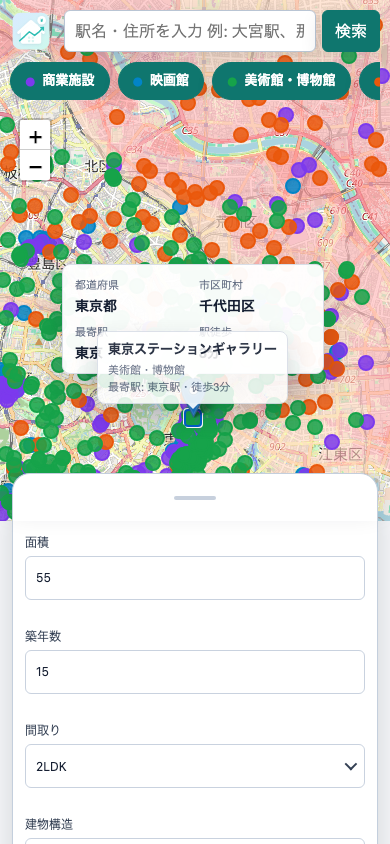
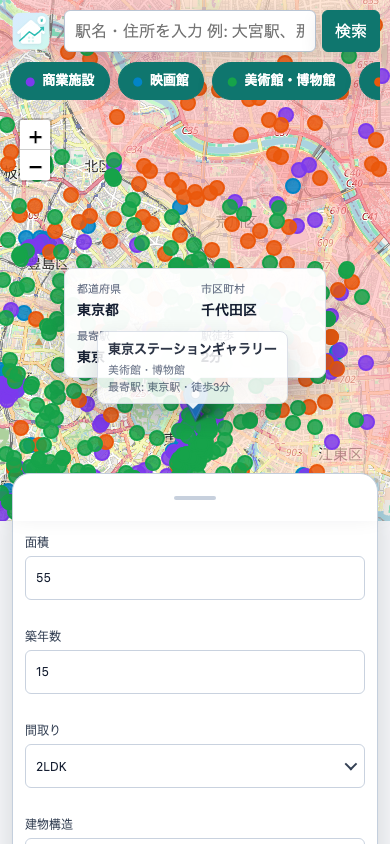
READMEの画面画像と説明を更新

diff --git a/frontend/e2e/screenshots.spec.ts b/frontend/e2e/screenshots.spec.ts
@@ -37,6 +37,27 @@ test("README用デスクトップ画面を生成する", async ({ page }) => {
   });
 });
 
+test("README用の全国施設クラスター画面を生成する", async ({ page }) => {
+  await page.setViewportSize({ width: 1440, height: 900 });
+  await mockSuccessfulGeocoding(page);
+  const predictionPage = new PredictionPage(page);
+  await predictionPage.goto();
+  await predictionPage.expectLoaded();
+
+  const zoomOut = page.getByRole("button", { name: "Zoom out" });
+  for (let index = 0; index < 7; index += 1) {
+    await zoomOut.click();
+    await page.waitForTimeout(350);
+  }
+  await page.locator(".facility-cluster-icon").first().waitFor({ state: "visible" });
+
+  await page.screenshot({
+    path: path.join(screenshotsDir, "app-japan-facility-clusters.png"),
+    fullPage: true,
+    animations: "disabled"
+  });
+});
+
 test("README用の予測結果画像を生成する", async ({ page }) => {
   await page.setViewportSize({ width: 1440, height: 1000 });
   const predictionPage = new PredictionPage(page);
@@ -44,6 +65,24 @@ test("README用の予測結果画像を生成する", async ({ page }) => {
 
   await predictionPage.predictionResult.screenshot({
     path: path.join(screenshotsDir, "app-prediction-result.png"),
+    animations: "disabled"
+  });
+});
+
+test("README用の周辺施設情報画面を生成する", async ({ page }) => {
+  await page.setViewportSize({ width: 1440, height: 1000 });
+  const predictionPage = new PredictionPage(page);
+  await prepareReadmeView(predictionPage);
+
+  const facilityCard = page.getByTestId("commercial-facility-card");
+  await facilityCard.scrollIntoViewIfNeeded();
+  await facilityCard.getByText("周辺商業施設の一覧", { exact: true }).waitFor({
+    state: "visible"
+  });
+
+  await page.screenshot({
+    path: path.join(screenshotsDir, "app-nearby-facilities.png"),
+    fullPage: true,
     animations: "disabled"
   });
 });

diff --git a/README.md b/README.md
@@ -18,9 +18,17 @@
 - 予測価格、平米単価、参考価格帯の表示
 - 過去価格と将来参考価格のグラフ表示
 - 首都圏4都県の専用モデルと8地方モデルによる全国推論
+- 全国の商業施設、映画館、美術館・博物館、温泉・入浴施設のカテゴリ別クラスター表示
+- 周辺商業施設、駅規模、災害リスク、モデル詳細の参考情報表示
 - スマートフォン向けボトムシートUI
 
 ## 画面イメージ
+
+### 全国の周辺施設
+
+地図をズームアウトすると、商業施設、映画館、美術館・博物館、温泉・入浴施設をカテゴリ別の件数にまとめて表示します。件数が多いほど円が大きく濃くなり、クリックするとその地域へズームインできます。
+
+![日本全国の周辺施設クラスター](docs/images/app-japan-facility-clusters.png)
 
 ### 価格予測結果
 
@@ -35,6 +43,12 @@
 将来価格は学習最終年のモデル予測値を基点に、駅別または地域別の価格推移トレンドで補正した参考値です。長期予測の精度は保証しません。
 
 ![価格推移グラフ](docs/images/app-price-history.png)
+
+### 周辺施設情報
+
+サイドメニューの参考情報では、周辺商業施設の名称、開業時期、店舗面積、テナント数や地域内の集計を確認できます。駅規模、災害リスク、モデル詳細もタブで切り替えられます。
+
+![サイドメニューの周辺施設情報](docs/images/app-nearby-facilities.png)
 
 ### スマートフォン表示
 
@@ -96,7 +110,7 @@ React + ONNX Runtime Web
 
 ```text
 frontend/          React、TypeScript、Vite、Playwright
-frontend/public/   ブラウザ配信用ONNX、メタデータ、駅マスタ、価格推移JSON
+frontend/public/   ブラウザ配信用ONNX、メタデータ、駅・施設・ハザード・価格推移データ
 training/          データ取得、前処理、学習、評価、ONNX出力
 training/browser/  公式画面CSVダウンロード用Playwrightスクリプト
 docs/              要件定義、実装仕様、テスト仕様、画面画像
@@ -128,7 +142,7 @@ developで開発
         ↓
 main向けPull Request
         ↓
-ビルドおよびE2Eテスト
+フロントエンドビルドおよびPython軽量CI
         ↓
 mainへマージ
         ↓
@@ -234,7 +248,9 @@ LightGBMでは、駅名、自治体、間取り、建物構造などのカテゴ
 - 入力変更による自動再予測
 - 地図クリックによる物件位置変更
 - 住所検索
+- 周辺施設のカテゴリ切り替えとクラスター表示
 - 価格推移グラフ
+- 商業施設、駅規模、災害リスク、モデル詳細の参考情報
 - デスクトップ表示
 - スマートフォン用ボトムシート
 - モデルおよびデータ読み込み失敗時の表示
@@ -271,6 +287,8 @@ npm run test:e2e:screenshots
 ```text
 docs/images/
 ├── app-desktop.png
+├── app-japan-facility-clusters.png
+├── app-nearby-facilities.png
 ├── app-prediction-result.png
 ├── app-price-history.png
 └── app-mobile.png
